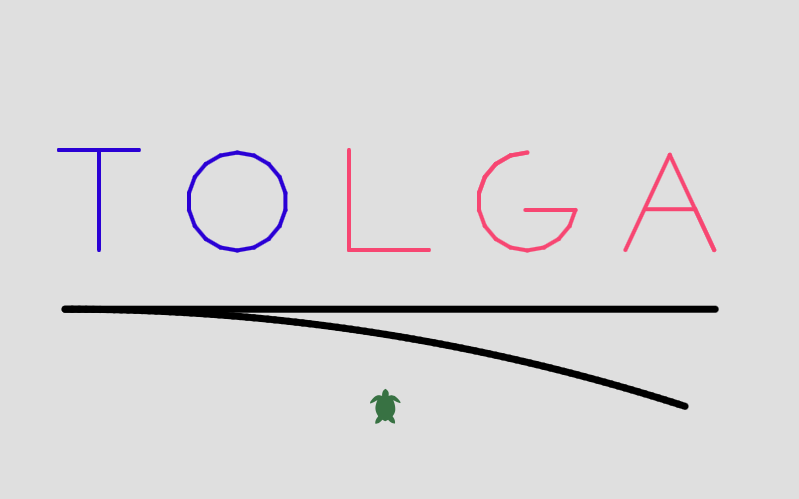
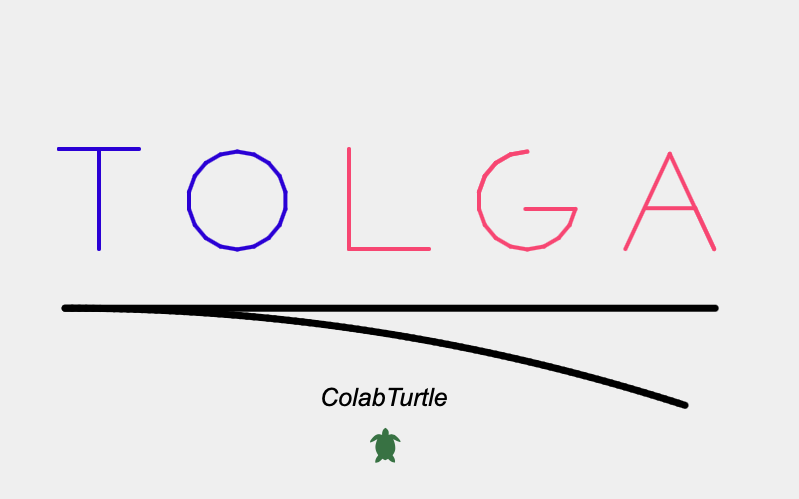
readme image extended for write() example

diff --git a/README.md b/README.md
@@ -22,9 +22,108 @@ As Colab stores the declared variables in the runtime, call this before using:
 
 An example code is given in the end of this documentation. Scroll down for it.
 
-Current API
+
+Example
 ----
-This module's API is mostly close with the traditional turtle API. There are some differences, most notably: the angles are handled differently. 0 angle is east and the angles increase clockwise. Some functions from the traditional turtle library is missing here; however almost all the main functionality is implemented. The functions that this library implements are explained below:
+
+The following code illustrates some usages of the library. For all functions available in this library, please check the API documentation below.
+
+```
+initializeTurtle()
+color('mediumblue')
+penup()
+goto(100, 250)
+pendown()
+forward(100)
+left(90)
+forward(40)
+right(180)
+forward(80)
+penup()
+right(90)
+forward(50)
+left(90)
+forward(50)
+left(90)
+backward(10)
+pendown()
+speed(10)
+for i in range(18):
+    forward(17)
+    right(20)
+penup()
+shape('circle')
+color(230, 90, 120)
+speed(7)
+right(90)
+forward(160)
+left(90)
+forward(60)
+right(180)
+pendown()
+forward(100)
+left(90)
+forward(80)
+penup()
+shape('turtle')
+forward(50)
+left(90)
+forward(40)
+pendown()
+for i in range(5):
+    forward(17)
+    right(20)
+left(200)
+for i in range(13):
+    forward(17)
+    left(20)
+left(90)
+forward(50)
+penup()
+backward(100)
+left(90)
+forward(40)
+pendown()
+left(155)
+forward(105)
+right(130)
+forward(105)
+backward(45)
+right(115)
+forward(50)
+bgcolor("#efefef")
+penup()
+backward(70)
+left(90)
+forward(100)
+right(90)
+pencolor('black')
+pensize(7)
+pendown()
+forward(650)
+left(180)
+speed(12)
+for i in range(90):
+    forward(7)
+    right(0.2)
+speed(2)
+left(18+180)
+penup()
+forward(300)
+setheading(270)
+write("ColabTurtle", align="center", font=(25, "Arial", "italic"))
+color('rgb(70 110 70)')
+backward(40)
+```
+
+This code ends up with the following drawing:
+
+![Drawing that reads "Tolga"](sample_image.jpg?raw=true "Example Code's Final Look")
+
+
+API
+----
+This module's API is mostly identical to the traditional turtle API. There are some differences, most notably: the angles are handled differently. 0 angle is east and the angles increase clockwise. Some functions from the traditional turtle library is missing here; however almost all the main functionality is implemented. The functions that this library implements are explained below:
 
 
 `forward(units) | fd(units)` -> Moves the turtle in the direction it is facing, by `units` pixels
@@ -141,102 +240,6 @@ Returns the turtle's distance to a given point x,y. The coordinates can be given
 `window_width()` -> Return the width of the turtle window.
 
 `window_height()` -> Return the height of the turtle window.
-
-
-<br/>
-
-Example
-----
-
-```
-initializeTurtle()
-color('mediumblue')
-penup()
-goto(100, 250)
-pendown()
-forward(100)
-left(90)
-forward(40)
-right(180)
-forward(80)
-penup()
-right(90)
-forward(50)
-left(90)
-forward(50)
-left(90)
-backward(10)
-pendown()
-speed(10)
-for i in range(18):
-    forward(17)
-    right(20)
-penup()
-shape('circle')
-color(230, 90, 120)
-speed(7)
-right(90)
-forward(160)
-left(90)
-forward(60)
-right(180)
-pendown()
-forward(100)
-left(90)
-forward(80)
-penup()
-shape('turtle')
-forward(50)
-left(90)
-forward(40)
-pendown()
-for i in range(5):
-    forward(17)
-    right(20)
-left(200)
-for i in range(13):
-    forward(17)
-    left(20)
-left(90)
-forward(50)
-penup()
-backward(100)
-left(90)
-forward(40)
-pendown()
-left(155)
-forward(105)
-right(130)
-forward(105)
-backward(45)
-right(115)
-forward(50)
-bgcolor("#dfdfdf")
-penup()
-backward(70)
-left(90)
-forward(100)
-right(90)
-pencolor('black')
-pensize(7)
-pendown()
-forward(650)
-left(180)
-speed(12)
-for i in range(90):
-    forward(7)
-    right(0.2)
-speed(2)
-left(18+180)
-penup()
-forward(300)
-right(90)
-color('rgb(70 110 70)')
-```
-
-This code ends up with the following drawing:
-
-![Drawing that reads "Tolga"](sample_image.jpg?raw=true "Example Code's Final Look")
 
 <br/>
 
